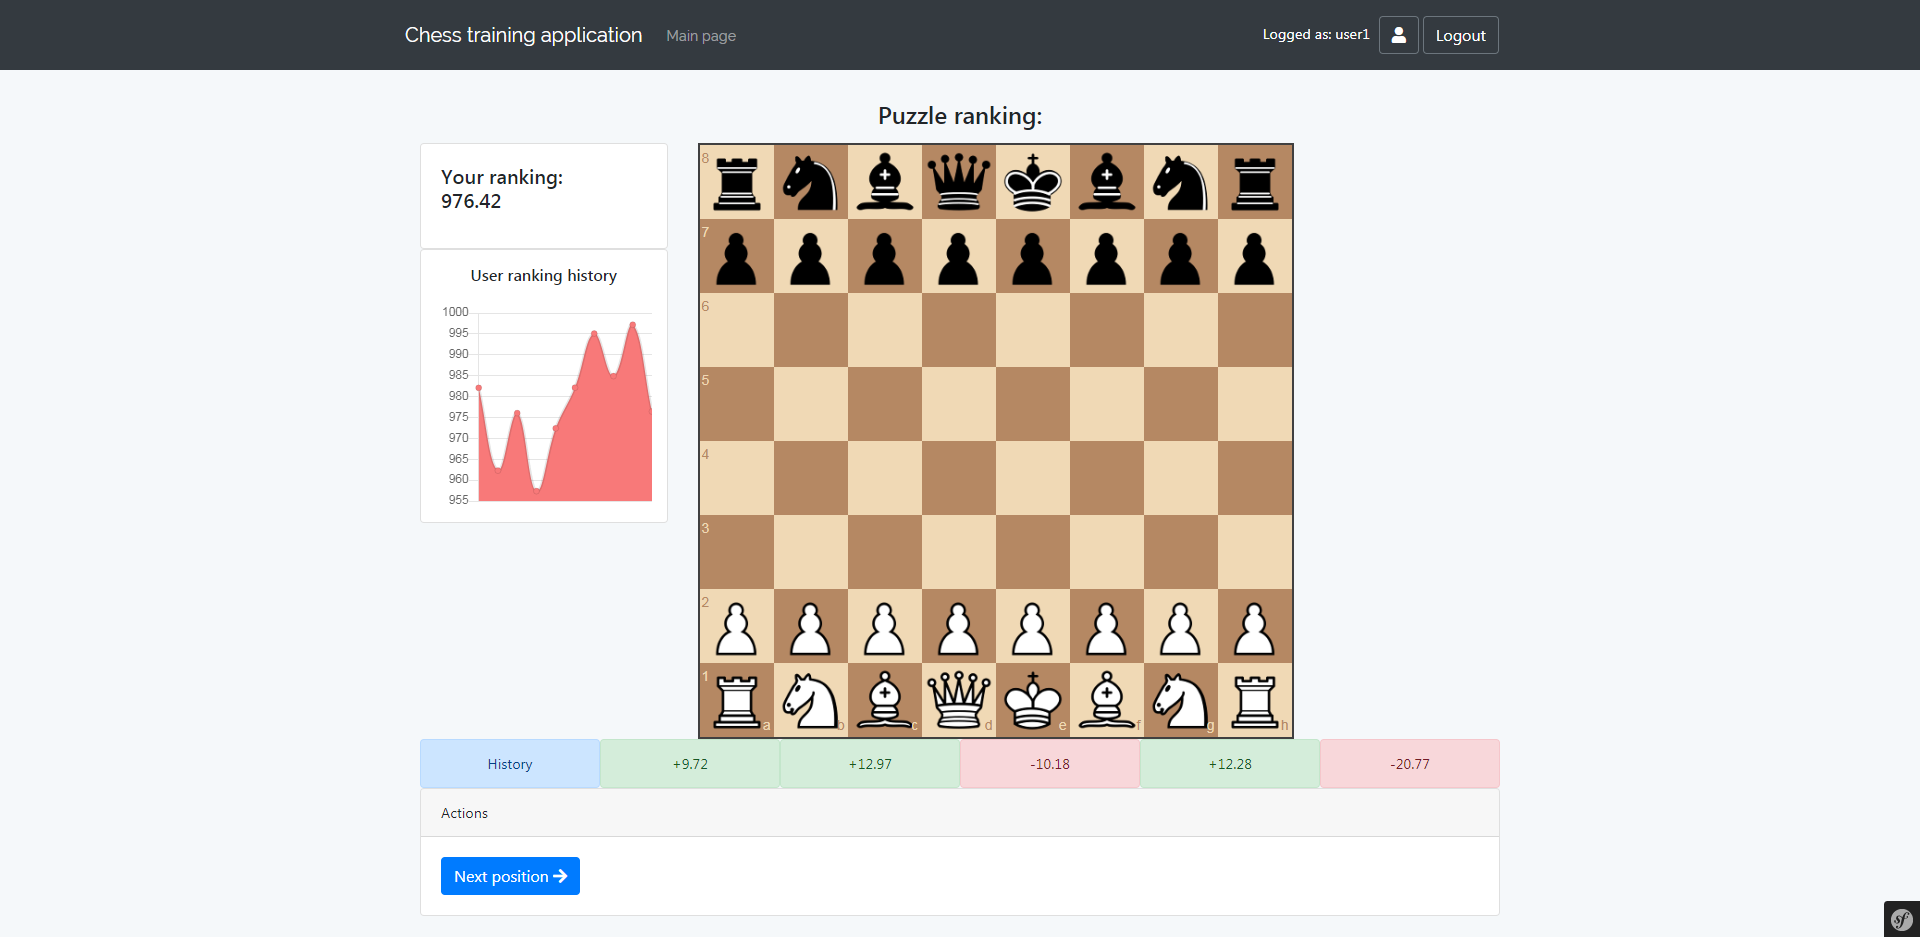
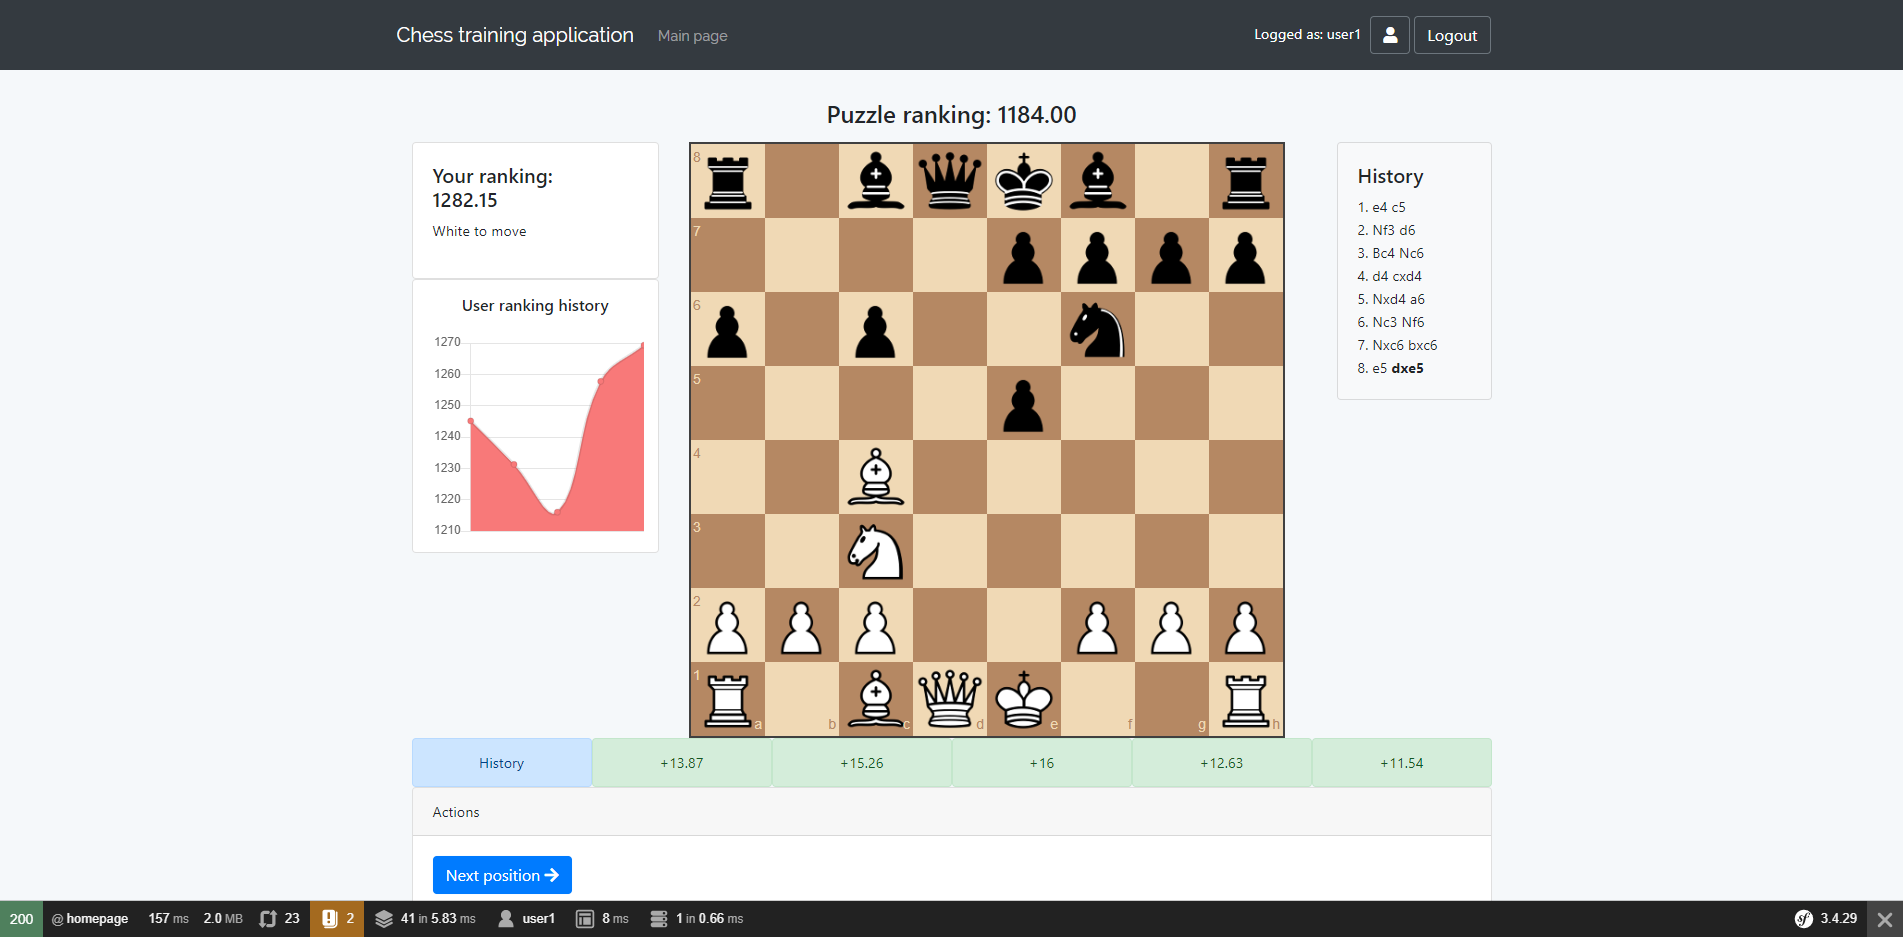
- implemented loading games from pgn and displaying basic game history

diff --git a/assets/js/components/gameHistoryComponent.vue b/assets/js/components/gameHistoryComponent.vue
@@ -1,7 +1,11 @@
 <template>
-    <p id="gameHistory" v-html="gameHistory" class="card-text">
+    <div class="card card-body bg-light">
+        <h5>History</h5>
 
-    </p>
+        <p id="gameHistory" v-html="gameHistory" class="card-text">
+
+        </p>
+    </div>
 </template>
 
 <script>
@@ -16,7 +20,41 @@ var gameHistoryComponent = Vue.component('game-history-component', {
     },
     computed: {
         gameHistory() {
-            return store.gameHistory;
+            let gameHistory =  store.gameHistory;
+            let resultHtml = '';
+            let counter = 1;
+
+            if (gameHistory === '') {
+                return  'no data';
+            }
+
+            if (gameHistory) {
+                for (let i=0; i<gameHistory.length; i++) {
+                    if (i % 2 == 0) {
+                        //last move
+                        if (i == gameHistory.length-1) {
+                            resultHtml += "<b><p class='game-history-paragraph'>"+counter+'. '+gameHistory[i]+' </b>';
+                            continue;
+                        }
+
+                        resultHtml += "<p class='game-history-paragraph'>"+counter+'. '+gameHistory[i]+' ';
+
+                        counter++;
+                    }
+                    else
+                    {
+                        //last move
+                        if (i == gameHistory.length-1) {
+                            resultHtml += "<b>"+gameHistory[i]+"</b></p>";
+                            continue;
+                        }
+
+                        resultHtml += gameHistory[i]+"</p>";
+                    }
+                }
+            }
+
+            return resultHtml;
         }
     },
 });

diff --git a/assets/js/chessboard_script.js b/assets/js/chessboard_script.js
@@ -161,8 +161,8 @@ var updateStatus = function() {
   store.statusValue = status;
 };
 
-var initNewPosition = function(fen) {
-    store.game.load(fen);
+var initNewPosition = function(fen, pgn) {
+    store.game.load_pgn(pgn);
 
     cfg.position = fen;
     cfg.draggable = true;
@@ -195,9 +195,7 @@ var makeMove = function(from, to) {
 }
 
 var updateGameHistory = function() {
-    var gameHistory = store.game.pgn();
-
-    console.log(gameHistory);
+    var gameHistory = store.game.history();
 
     store.gameHistory = gameHistory;
 }
@@ -211,6 +209,8 @@ var checkPlayerSolution = function(playerMove, solutionMove) {
 
      if (movesSolution[0] == playerMove.from && movesSolution[1] == playerMove.to)
      {
+         console.log('in');
+
         var nextMove = getNextMoveFromSolution(store.solution);
 
         setProgressInfo(true);
@@ -466,7 +466,7 @@ var getRandomPosition = function() {
     .then(response => {
           store.currentPosition = response.data.fen;
 
-          initNewPosition(response.data.fen);
+          initNewPosition(response.data.fen, response.data.pgn);
           store.solution = setSolutionArray(response.data.solution);
           store.solutionCopy = setSolutionArray(response.data.solution);
           store.puzzleRankingValue = parseFloat(response.data.puzzleRanking).toFixed(2);

diff --git a/assets/css/custom.css b/assets/css/custom.css
@@ -44,3 +44,7 @@
     margin-top:0;
     margin-bottom:0;
 }
+.game-history-paragraph {
+    margin-top:0;
+    margin-bottom:0;
+}

diff --git a/src/AppBundle/DataFixtures/AppFixtures.php b/src/AppBundle/DataFixtures/AppFixtures.php
@@ -21,54 +21,134 @@ class AppFixtures extends Fixture implements FixtureInterface, ContainerAwareInt
     static $fenArray = [
         [
             "startingColor" => "W",
-            "fen" => "rn1qkbnr/p1pbpppp/3p4/1p6/2B1P3/3P4/PPP2PPP/RNBQK1NR w KQkq - 0 4",
-            "solution" => '{"array":["c4-f7","e8-f7","d1-h5","g7-g6","h5-d5"]}'
+            "fen" => "8/8/p3k1rN/1p5R/1P3P1K/2r5/P7/8 w - - 5 45",
+            "pgn" => "[Event \"Rated Rapid game\"]
+[Site \"https://lichess.org/ItbDQjmK\"]
+[Date \"2016.10.23\"]
+[Round \"-\"]
+[White \"topsoul\"]
+[Black \"Monyassa\"]
+[Result \"1/2-1/2\"]
+[UTCDate \"2016.10.23\"]
+[UTCTime \"20:51:43\"]
+[WhiteElo \"2043\"]
+[BlackElo \"2167\"]
+[WhiteRatingDiff \"+3\"]
+[BlackRatingDiff \"-4\"]
+[Variant \"Standard\"]
+[TimeControl \"300+7\"]
+[ECO \"B20\"]
+[Opening \"Sicilian Defense: Bowdler Attack\"]
+[Termination \"Normal\"]
+[Annotator \"lichess.org\"]
+
+1. e4 c5 2. Bc4 { B20 Sicilian Defense: Bowdler Attack } d6 3. c3 Nf6 4. Qe2 Nc6 5. Bb3 e6 6. d3 Be7 7. h3 O-O 8. Nf3 d5 9. Ng5? { (-0.11 → -1.16) Mistake. Best move was O-O. } (9. O-O b5 10. Bf4 a5 11. a4 b4 12. Nbd2 Ba6 13. c4 d4 14. Ne5 Bb7 15. Bg3 Nxe5) 9... dxe4?! { (-1.16 → -0.17) Inaccuracy. Best move was b5. } (9... b5 10. O-O a5 11. Nf3 a4 12. Bc2 b4 13. Re1 Bb7 14. Qd1 b3 15. axb3 axb3 16. Rxa8) 10. dxe4 h6 11. Nf3 a6? { (-0.16 → 0.97) Mistake. Best move was e5. } (11... e5 12. O-O Qc7 13. Nh4 Rd8 14. Nf5 a6 15. Be3 Bxf5 16. exf5 e4 17. Nd2 Qe5 18. Nc4) 12. g4? { (0.97 → -0.48) Mistake. Best move was e5. } (12. e5) 12... b5 13. g5 hxg5 14. Nxg5?! { (-0.83 → -1.50) Inaccuracy. Best move was Rg1. } (14. Rg1 g4 15. hxg4 c4 16. Bc2 e5 17. g5 Nd7 18. Be3 Nc5 19. Bxc5 Bxc5 20. Nbd2 Ba7) 14... c4 15. Bc2 Ne5 16. Kf1 Nd3 17. Nd2?! { (-1.77 → -2.47) Inaccuracy. Best move was Bxd3. } (17. Bxd3) 17... Nd7?! { (-2.47 → -1.82) Inaccuracy. Best move was e5. } (17... e5 18. Bxd3 cxd3 19. Qf3 a5 20. Rg1 Qd7 21. Rg2 Bb7 22. Kg1 a4 23. Rg3 Rfd8 24. Rg2) 18. h4 N7c5?? { (-1.75 → Mate in 5) Checkmate is now unavoidable. Best move was e5. } (18... e5 19. Bxd3 cxd3 20. Qxd3 Nc5 21. Qxd8 Rxd8 22. Ngf3 Nd3 23. h5 Bg4 24. h6 g6 25. Kg2) 19. Ndf3?? { (Mate in 5 → -2.87) Lost forced checkmate sequence. Best move was Qh5. } (19. Qh5 Bxg5 20. hxg5 f5 21. g6 Qh4 22. Rxh4 Nxc1 23. Qh7#) 19... Bb7?? { (-2.87 → -1.07) Blunder. Best move was f6. } (19... f6 20. Nh3 e5 21. b4 Na4 22. Bxa4 bxa4 23. Ne1 a5 24. b5 Qd7 25. h5 Qxb5 26. Be3) 20. b4?! { (-1.07 → -1.66) Inaccuracy. Best move was Ne5. } (20. Ne5 g6 21. b4 Nxe4 22. Nxe4 Qd5 23. Nxd3 Qxe4 24. Qxe4 Bxe4 25. Rh3 Bf5 26. Rf3 cxd3) 20... Nxc1? { (-1.66 → -0.28) Mistake. Best move was f6. } (20... f6 21. bxc5 fxg5 22. Bxg5 Bxg5 23. hxg5 Rf4 24. Rd1 Qf8 25. Bxd3 cxd3 26. Rxd3 Bxe4 27. Nd4) 21. Rxc1 Nd3?! { (-0.56 → 0.00) Inaccuracy. Best move was f6. } (21... f6 22. Rd1) 22. Rd1 Qc7 23. Bxd3 cxd3 24. Rxd3 Rad8 25. Nd4 Qf4 26. Qh5? { (0.28 → -0.88) Mistake. Best move was Rf3. } (26. Rf3 Qe5 27. Rg1 Bxg5 28. Rxg5 Qxe4 29. Qxe4 Bxe4 30. Rfg3 g6 31. h5 Rd5 32. hxg6 Rxg5) 26... Bxe4 27. Rf3 Qc1+ 28. Kg2 Bxf3+?! { (-0.98 → 0.00) Inaccuracy. Best move was Qf4. } (28... Qf4 29. Kf1 Rxd4 30. cxd4 Qc1+ 31. Kg2 Bxf3+ 32. Qxf3 Qc2 33. a3 Qg6 34. Qe4 Qxe4+ 35. Nxe4) 29. Ndxf3?? { (0.00 → -2.08) Blunder. Best move was Qxf3. } (29. Qxf3 Qd2 30. Qh5 Qd3 31. Rd1 Qg6 32. Qxg6 fxg6 33. Ngxe6 Bxh4 34. Nxf8 Rxf8 35. Nf3 Bf6) 29... Qc2 30. Ne5? { (-2.11 → -4.23) Mistake. Best move was Nd4. } (30. Nd4 Rxd4 31. cxd4 f6 32. Nh3 Bxb4 33. Nf4 Bd6 34. Qe2 Qxe2 35. Nxe2 Rc8 36. Rc1 Rc4) 30... Bxg5?? { (-4.23 → 8.91) Blunder. Best move was Rd2. } (30... Rd2 31. Qf3 Bf6 32. Re1 Qf5 33. Qxf5 exf5 34. Nc6 Bxc3 35. Ne7+ Kh8 36. a3 Ra2 37. Rd1) 31. hxg5 Qe4+ 32. Nf3 f5 33. gxf6?? { (8.09 → -3.86) Blunder. Best move was Rh4. } (33. Rh4 Qg4+ 34. Rxg4 fxg4 35. Qxg4 Rf5 36. Nd4 Rxd4 37. cxd4 Kf7 38. Qh5+ Ke7 39. Qg6 Kf8) 33... Rxf6 34. Rh4 Rg6+?? { (-3.49 → 0.57) Blunder. Best move was Qg6+. } (34... Qg6+ 35. Qxg6) 35. Kh2 Qf5?? { (0.33 → 4.90) Blunder. Best move was Qc2. } (35... Qc2 36. Qh8+ Kf7 37. Ne5+ Ke7 38. Nc6+ Kd6 39. Qxd8+ Kxc6 40. Qc8+ Kb6 41. Qb8+ Kc6 42. Qa7) 36. Qxf5?? { (4.90 → -3.49) Blunder. Best move was Qh8+. } (36. Qh8+ Kf7 37. Qxd8 Rf6 38. Rh3 Rh6 39. Qc7+ Kg6 40. Rxh6+ Kxh6 41. Kg3 Qg6+ 42. Kf4 Qc2) 36... exf5 37. Nd4 Rf6?! { (-3.60 → -2.73) Inaccuracy. Best move was Kf7. } (37... Kf7) 38. Kg3? { (-2.73 → -4.39) Mistake. Best move was Rh3. } (38. Rh3 Rc8 39. Kg2 Kf7 40. Rf3 g6 41. Re3 Rd6 42. Kg3 Kf6 43. f4 Rh8 44. Re1 Kf7) 38... g5?? { (-4.39 → -2.05) Blunder. Best move was Rc8. } (38... Rc8) 39. Rh5 g4?! { (-1.98 → -1.14) Inaccuracy. Best move was Kf7. } (39... Kf7 40. Rxg5 Rc8 41. Ne2 Rg6 42. Rxg6 Kxg6 43. Kf3 Kf6 44. Ke3 Rh8 45. Nf4 Rh1 46. Kd4) 40. Nxf5 Rd3+ 41. Kxg4 Rxc3 42. f4? { (-0.87 → -2.31) Mistake. Best move was Kg5. } (42. Kg5) 42... Rg6+ 43. Kh4 Kf7 44. Nh6+ Ke6??",
+            "solution" => '{"array":["f4-f5", "e6-f6", "f5-g6"]}'
         ],
         [
             "startingColor" => "W",
-            "fen" => "1r1q3k/2p4p/p2pb3/4brp1/2p3P1/1QN5/PP3P1P/3RRBK1 w - - 0 23",
-            "solution" => '{"array":["b3-c2","f5-f4","e1-e5"]}'        
+            "fen" => "r1bqkb1r/4pppp/p1p2n2/4p3/2B5/2N5/PPP2PPP/R1BQK2R w KQkq - 0 9",
+            "pgn" => "[Event \"Rated Rapid game\"]
+[Site \"https://lichess.org/5WJne5YV\"]
+[Date \"2016.09.03\"]
+[Round \"-\"]
+[White \"caiexeu\"]
+[Black \"jaye\"]
+[Result \"1-0\"]
+[UTCDate \"2016.09.03\"]
+[UTCTime \"21:55:16\"]
+[WhiteElo \"1959\"]
+[BlackElo \"1864\"]
+[WhiteRatingDiff \"+8\"]
+[BlackRatingDiff \"-8\"]
+[Variant \"Standard\"]
+[TimeControl \"600+0\"]
+[ECO \"B50\"]
+[Opening \"Sicilian Defense\"]
+[Termination \"Normal\"]
+[Annotator \"lichess.org\"]
+
+1. e4 c5 2. Nf3 d6 { B50 Sicilian Defense } 3. Bc4 Nc6 4. d4 cxd4 5. Nxd4 a6 6. Nc3 Nf6 7. Nxc6 bxc6 8. e5 dxe5??",
+            "solution" => '{"array":["c4-f7", "e8-f7", "d1-d8"]}'
         ],
         [
             "startingColor" => "B",
-            "fen" => "r1b2rk1/1p3ppp/2p1pn2/p7/P1Pq2P1/1P1p3P/3K4/b2QNB1R b - - 1 19",
-            "solution" => '{"array":["f6-e4","d2-c1","d4-b2"]}'        
+            "fen" => "r4r2/ppq2N2/2n2kpp/5P2/8/1QP4P/PP4P1/R5K1 w - - 0 24",
+            "pgn" => "[Event \"Rated Rapid game\"]
+[Site \"https://lichess.org/NVEjUNmx\"]
+[Date \"2016.11.26\"]
+[Round \"-\"]
+[White \"boos2016\"]
+[Black \"parviz61\"]
+[Result \"1-0\"]
+[UTCDate \"2016.11.26\"]
+[UTCTime \"05:48:26\"]
+[WhiteElo \"2097\"]
+[BlackElo \"2008\"]
+[WhiteRatingDiff \"+7\"]
+[BlackRatingDiff \"-8\"]
+[Variant \"Standard\"]
+[TimeControl \"420+2\"]
+[ECO \"A45\"]
+[Opening \"Indian Game\"]
+[Termination \"Normal\"]
+[Annotator \"lichess.org\"]
+
+1. d4 Nf6 { A45 Indian Game } 2. Bf4 g6 3. e3 Bg7 4. c3 O-O 5. Be2 c5?! { (-0.44 → 0.09) Inaccuracy. Best move was d6. } (5... d6 6. Nf3 b6 7. c4 Nbd7 8. O-O Bb7 9. Nc3 Ne4 10. Nxe4) 6. Nf3 cxd4 7. exd4 d5 8. Nbd2 Nc6 9. h3 Ne4 10. O-O f6 11. Bd3?? { (1.03 → -1.03) Blunder. Best move was Nxe4. } (11. Nxe4 dxe4 12. Nd2 f5 13. Qb3+ Kh8 14. Nc4 e5 15. Nxe5 Nxe5 16. dxe5 Qh4 17. g3 Qe7) 11... e5 12. dxe5 fxe5 13. Bg3? { (-1.49 → -2.97) Mistake. Best move was Bh2. } (13. Bh2 Nc5 14. Be2 e4 15. Ne1 a5 16. a4 b6 17. Bb5 Na7 18. Nb3 Nxb5 19. axb5 Bb7) 13... Nxg3 14. fxg3 e4 15. Bxe4 dxe4 16. Qb3+ Kh8 17. Nxe4 Qc7 18. Nfg5 h6?! { (-3.06 → -2.08) Inaccuracy. Best move was Bf5. } (18... Bf5) 19. Nf7+ Kh7 20. Nf6+?? { (-2.43 → -7.16) Blunder. Best move was g4. } (20. g4 Ne5) 20... Bxf6 21. Rxf6 Bf5?! { (-6.77 → -4.27) Inaccuracy. Best move was Qe7. } (21... Qe7 22. Rf2 Be6 23. Re1 Bxb3 24. Rxe7 Nxe7 25. axb3 Nf5 26. Ne5 Nxg3 27. Nf3 Rae8 28. Kh2) 22. g4 Kg7?? { (-3.94 → -0.15) Blunder. Best move was Qe7. } (22... Qe7 23. gxf5) 23. gxf5 Kxf6??",
+            "solution" => '{"array":["b3-e6", "f6-g7", "e6-g6"]}'
         ],
         [
             "startingColor" => "B",
-            "fen" => "r2qr1k1/1p1b2bp/p2N1pp1/3Pn1B1/8/1B3P2/PP1Q2PP/R4RK1 b - - 0 18",
-            "solution" => '{"array":["d8-b6","g5-e3","b6-d6"]}'        
+            "fen" => "r5r1/1pR1bk2/1P2p1pp/4Rn2/p2q4/P2Q4/5PPP/6K1 w - - 2 27",
+            "pgn" => "[Event \"Hourly Blitz Arena\"]
+[Site \"https://lichess.org/bwyHieXZ\"]
+[Date \"2016.10.11\"]
+[Round \"-\"]
+[White \"cool_chess\"]
+[Black \"shirly\"]
+[Result \"1-0\"]
+[UTCDate \"2016.10.11\"]
+[UTCTime \"23:33:57\"]
+[WhiteElo \"1922\"]
+[BlackElo \"1899\"]
+[WhiteRatingDiff \"+12\"]
+[BlackRatingDiff \"-11\"]
+[Variant \"Standard\"]
+[TimeControl \"300+0\"]
+[ECO \"B12\"]
+[Opening \"Caro-Kann Defense: Advance Variation\"]
+[Termination \"Normal\"]
+[Annotator \"lichess.org\"]
+
+1. e4 c6 2. d4 d5 3. e5 { B12 Caro-Kann Defense: Advance Variation } Bf5 4. c3 e6 5. Bd3 Bxd3 6. Qxd3 c5 7. Ne2 Nc6 8. a3 Qb6 9. O-O Nge7 10. b4 cxd4 11. cxd4 a5 12. b5 Nb8 13. Nbc3 a4 14. Be3 g6 15. Bg5 h6 16. Bf6 Rg8 17. Nf4 Nf5 18. Ncxd5 exd5 19. Nxd5 Qa5 20. b6 Qxd5 21. Rac1 Nc6 22. e6 fxe6 23. Rfe1 Kf7 24. Be5 Nxe5 25. Rxe5 Qxd4 26. Rc7+ Be7",
+            "solution" => '{"array":["e5-f5", "g6-f5", "d3-d4"]}'
         ],
         [
             "startingColor" => "B",
-            "fen" => "r3k2r/ppp2ppp/2nb4/6q1/1PPP2b1/P6P/1BQN1PP1/R3KB1R b KQkq - 0 13",
-            "solution" => '{"array":["g5-e3","f1-e2","e3-e2"]}'        
+            "fen" => "rq3r2/1pp2pQ1/p3p1n1/4b3/6kP/1P2P3/P2P1PK1/R7 w - - 0 24",
+            "pgn" => "[Event \"Rated Rapid game\"]
+[Site \"https://lichess.org/tQqkNmcu\"]
+[Date \"2016.09.30\"]
+[Round \"-\"]
+[White \"Sandens\"]
+[Black \"Vanril\"]
+[Result \"0-1\"]
+[UTCDate \"2016.09.30\"]
+[UTCTime \"12:43:31\"]
+[WhiteElo \"2085\"]
+[BlackElo \"1947\"]
+[WhiteRatingDiff \"-15\"]
+[BlackRatingDiff \"+15\"]
+[Variant \"Standard\"]
+[TimeControl \"480+0\"]
+[ECO \"A07\"]
+[Opening \"King's Indian Attack\"]
+[Termination \"Normal\"]
+[Annotator \"lichess.org\"]
+
+1. Nf3 d5 2. g3 { A07 King's Indian Attack } e6 3. Bg2 Nf6 4. O-O Nc6 5. c4 dxc4 6. Qa4 Bd7 7. Qxc4 Qb8 8. Nc3 Bd6 9. b3 O-O 10. Bb2 a6 11. e3 Ne7 12. Ne2 Bb5 13. Qh4 Bxe2 14. Bxf6 gxf6 15. Qxf6 Bxf1 16. Ng5 Ng6 17. Qf3 Bxg2 18. Qh5 Kg7 19. Qxh7+ Kf6 20. Kxg2 Kxg5 21. Qg7 Be5 22. h4+ Kf5 23. g4+ Kxg4",
+            "solution" => '{"array":["f2-f3", "g4-f5", "e3-e4", "f5-f4", "g7-h6"]}'
         ],
-        [
-            "startingColor" => "B",
-            "fen" => "r1b1k2r/p4ppp/3P4/1p1K4/1q2PP2/5Q1P/P1P3P1/R1B2B1R b kq - 0 22",
-            "solution" => '{"array":["c8-b7","d5-e5","b4-c5"]}'        
-        ],
-        [
-            "startingColor" => "B",
-            "fen" => "8/R3R2p/5pk1/6p1/1P4Pn/P5KP/5P2/3r4 b - - 4 42",
-            "solution" => '{"array":["d1-g1","g3-h2","h5-f3"]}'        
-        ],
-        [
-            "startingColor" => "W",
-            "fen" => "8/4R3/8/rBpk4/P7/2n5/3r4/5RK1 w - - 7 45",
-            "solution" => '{"array":["e2-d2","d4-e3","d2-d7"]}'        
-        ],
-        [
-            "startingColor" => "W",
-            "fen" => "2k5/pn3p2/6b1/4Npqr/PPPP4/8/5PQ1/2b2K2 w - - 0 31",
-            "solution" => '{"array":["g2-c6","c8-b8","e5-d7","b8-a8","c6-c8"]}'        
-        ],
-        [
-            "startingColor" => "B",
-            "fen" => "1k4Q1/1pp4p/p7/8/8/4q2P/PP3rP1/3R1RK1 b - - 1 32",
-            "solution" => '{"array":["f2-f8","g1-h1","f8-g8"]}'        
-        ]
     ];
 
     static $users = [
@@ -99,6 +179,7 @@ class AppFixtures extends Fixture implements FixtureInterface, ContainerAwareInt
             $position = new Position();
             $position->setStartingColor(self::$fenArray[$key]['startingColor']);
             $position->setFen(self::$fenArray[$key]['fen']);
+            $position->setPgn(self::$fenArray[$key]['pgn']);
             $position->setSolution(self::$fenArray[$key]['solution']);
             $manager->persist($position);
         }

diff --git a/app/DoctrineMigrations/Version20190922154015.php b/app/DoctrineMigrations/Version20190922154015.php
@@ -1,0 +1,28 @@
+<?php declare(strict_types=1);
+
+namespace Application\Migrations;
+
+use Doctrine\DBAL\Schema\Schema;
+use Doctrine\Migrations\AbstractMigration;
+
+/**
+ * Auto-generated Migration: Please modify to your needs!
+ */
+final class Version20190922154015 extends AbstractMigration
+{
+    public function up(Schema $schema) : void
+    {
+        // this up() migration is auto-generated, please modify it to your needs
+        $this->abortIf($this->connection->getDatabasePlatform()->getName() !== 'mysql', 'Migration can only be executed safely on \'mysql\'.');
+
+        $this->addSql('ALTER TABLE positions ADD pgn LONGTEXT NOT NULL AFTER fen, CHANGE fen fen LONGTEXT NOT NULL');
+    }
+
+    public function down(Schema $schema) : void
+    {
+        // this down() migration is auto-generated, please modify it to your needs
+        $this->abortIf($this->connection->getDatabasePlatform()->getName() !== 'mysql', 'Migration can only be executed safely on \'mysql\'.');
+
+        $this->addSql('ALTER TABLE positions DROP pgn, CHANGE fen fen TEXT DEFAULT NULL COLLATE utf8_unicode_ci');
+    }
+}

diff --git a/src/AppBundle/Entity/Position.php b/src/AppBundle/Entity/Position.php
@@ -17,9 +17,14 @@ class Position
     private $idPosition;
 
     /**
-     * @ORM\Column(type="string", length=200)
+     * @ORM\Column(type="text")
      */
     private $fen;
+
+    /**
+     * @ORM\Column(type="text")
+     */
+    private $pgn;
 
     /**
      * @ORM\Column(type="string", length=10)
@@ -134,5 +139,21 @@ class Position
     public function setStartingColor($startingColor): void
     {
         $this->startingColor = $startingColor;
+    }
+
+    /**
+     * @return mixed
+     */
+    public function getPgn()
+    {
+        return $this->pgn;
+    }
+
+    /**
+     * @param mixed $pgn
+     */
+    public function setPgn($pgn): void
+    {
+        $this->pgn = $pgn;
     }
 }

diff --git a/src/AppBundle/Entity/PositionRankingHistory.php b/src/AppBundle/Entity/PositionRankingHistory.php
@@ -158,4 +158,24 @@ class PositionRankingHistory
         return $this->modified;
     }
 
+
+    /**
+     * Get solveResult.
+     *
+     * @return bool
+     */
+    public function getSolveResult()
+    {
+        return $this->solveResult;
+    }
+
+    /**
+     * Get created.
+     *
+     * @return \DateTime|null
+     */
+    public function getCreated()
+    {
+        return $this->created;
+    }
 }

diff --git a/src/AppBundle/Controller/Api/PositionController.php b/src/AppBundle/Controller/Api/PositionController.php
@@ -36,6 +36,7 @@ class PositionController extends AbstractFOSRestController
 
     	$array = [
             'fen' => $randPosition->getFen(),
+            'pgn' => $randPosition->getPgn(),
             'solution' => $randPosition->getSolution(),
             'puzzleRanking' => $randPosition->getPuzzleRanking(),
             'puzzleId' => $randPosition->getIdPosition(),
